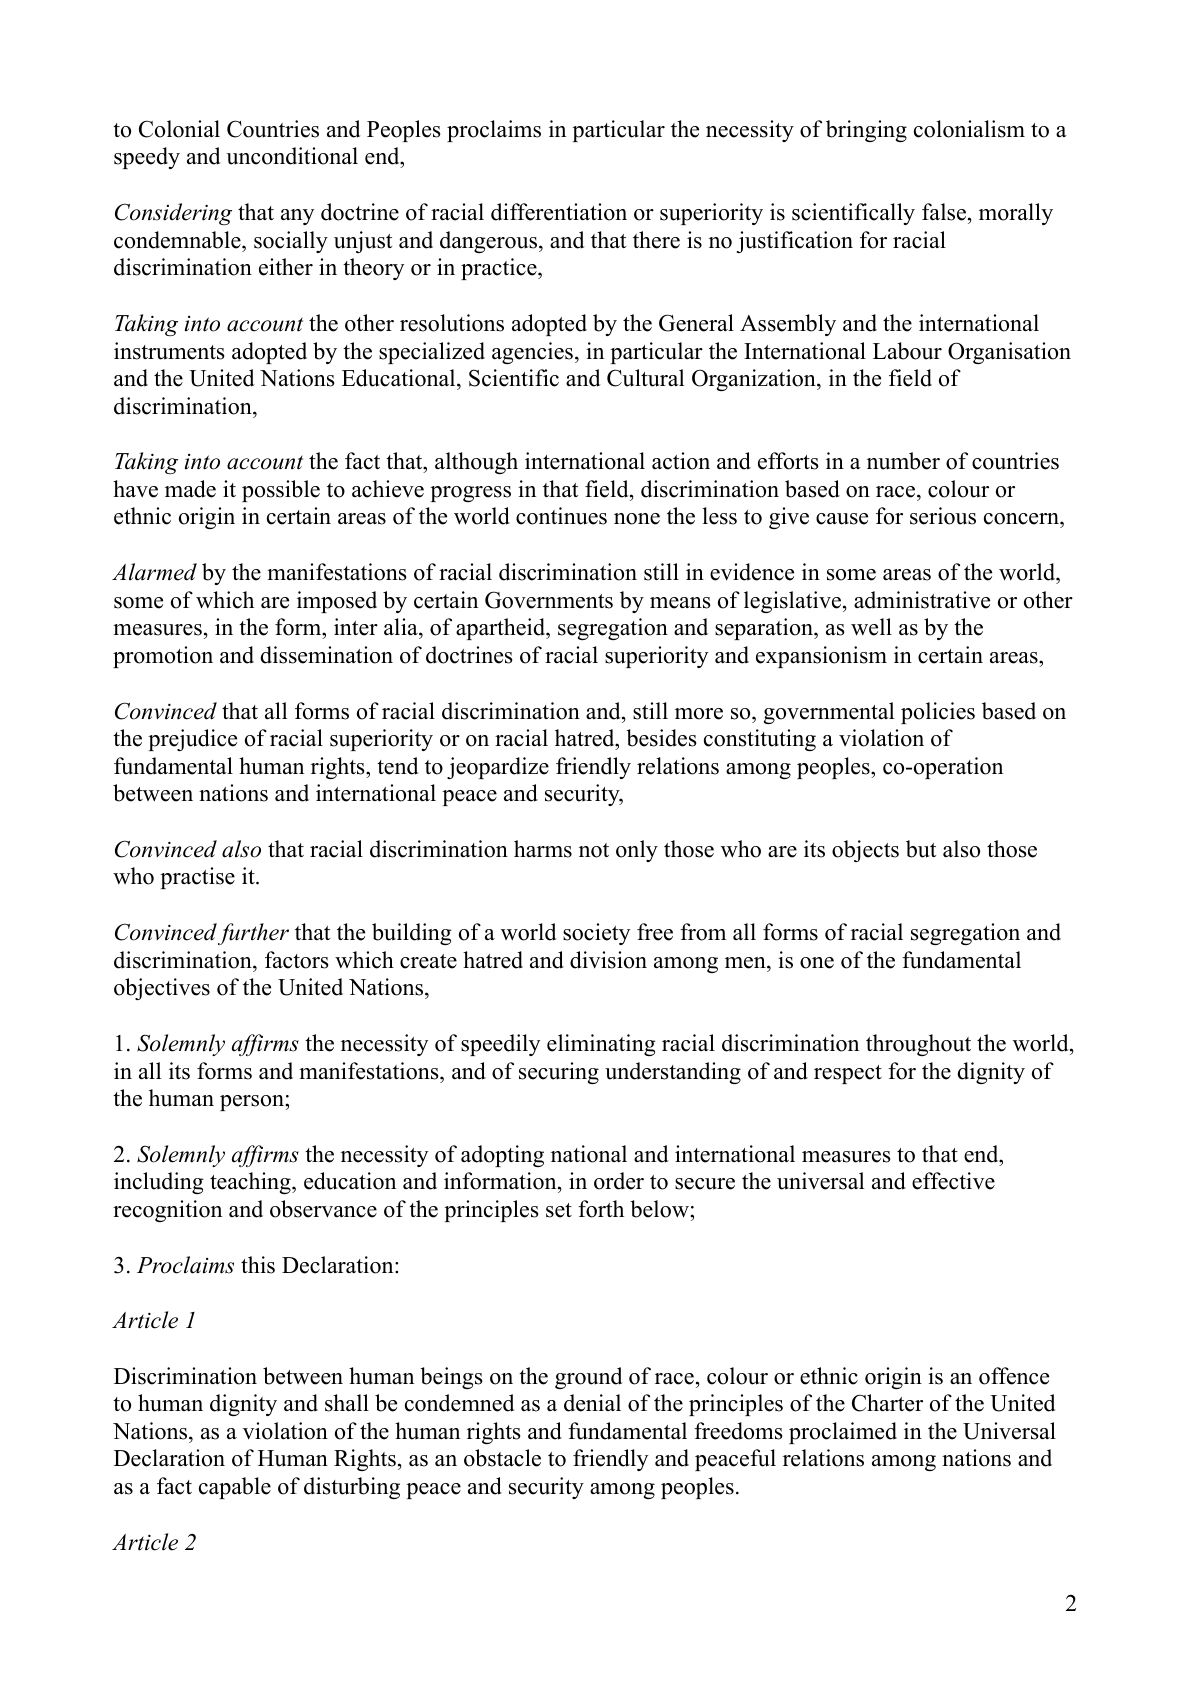
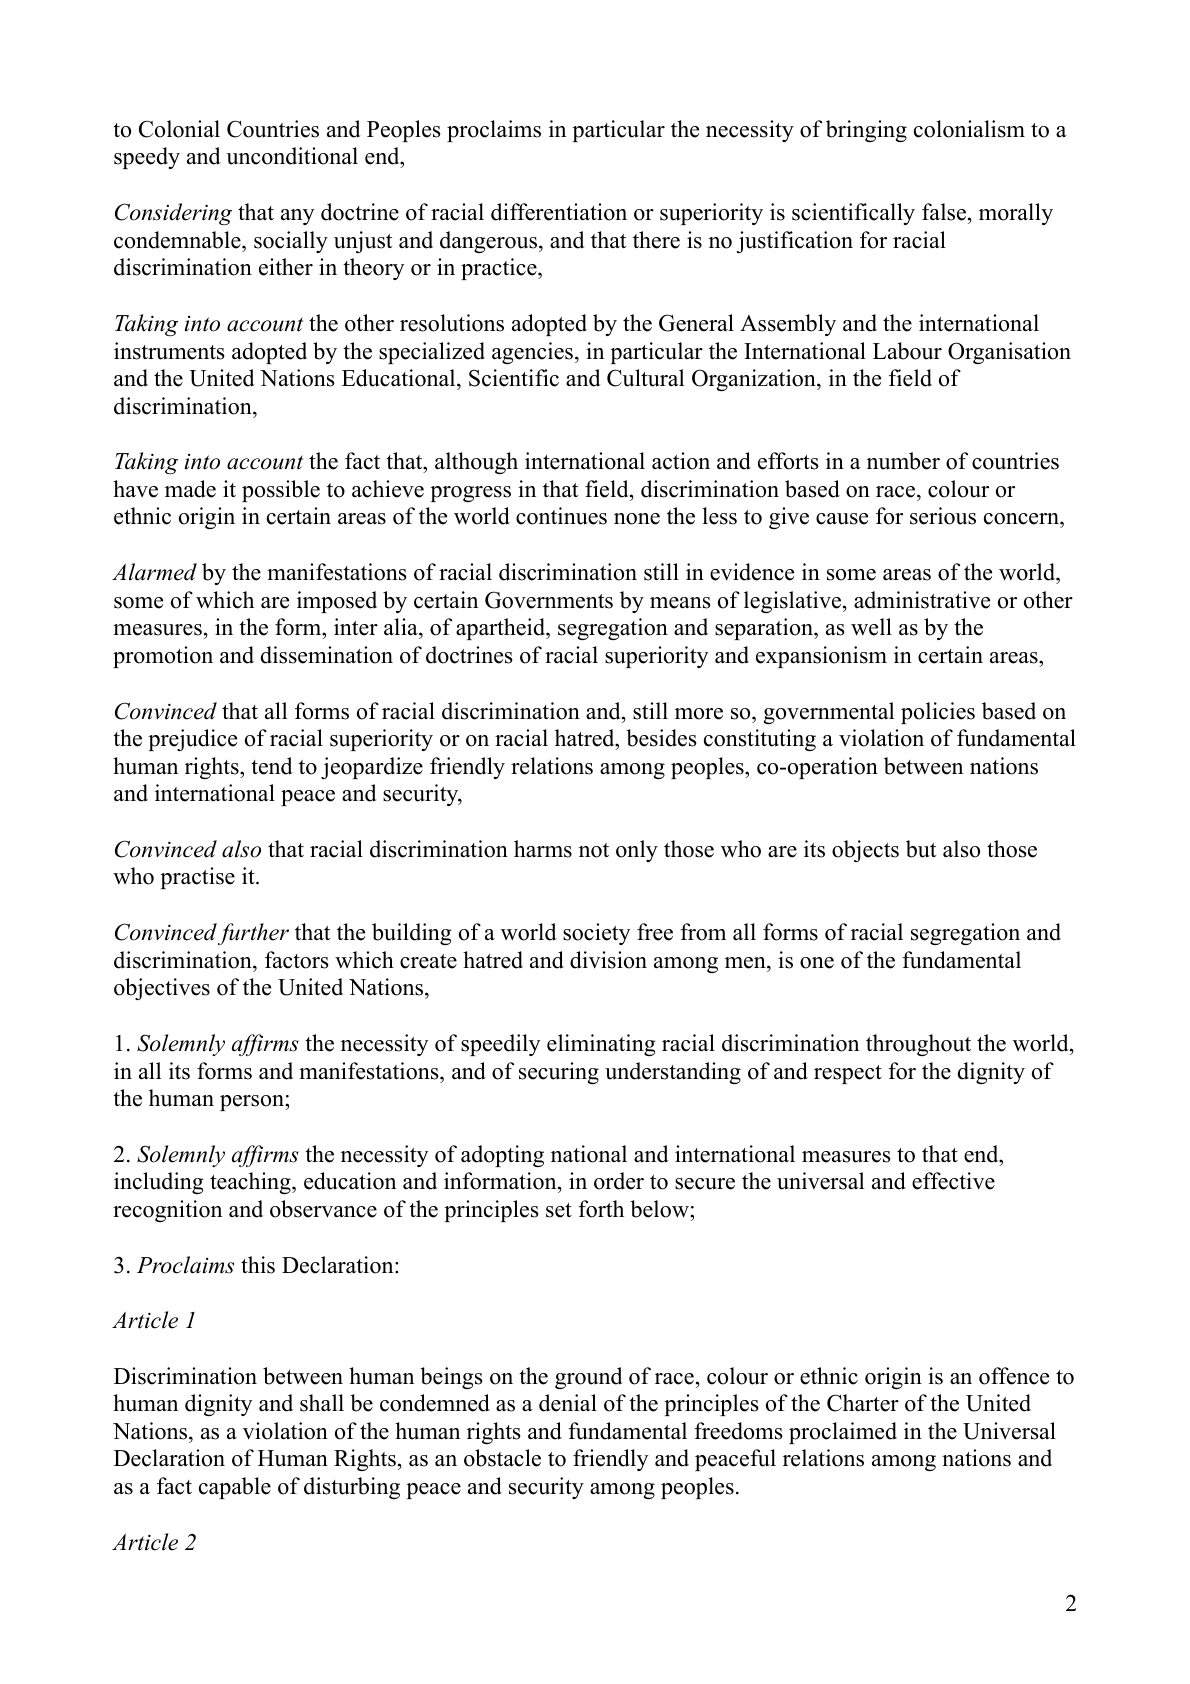
Word TOC parity: fit trailing-space body lines

diff --git a/docs/word-parity-fixes.html b/docs/word-parity-fixes.html
@@ -153,34 +153,34 @@
     <tbody>
       <tr>
         <td>
-          <strong>TOC body wrap: keep line-ending space from ejecting <code>world,</code></strong>
-          <span class="meta">Repro: <code>docx4j-toc.docx</code> page 2 numbered declaration paragraph.</span>
-          <span class="meta">Real fixture class: mixed italic/regular body paragraphs where a trailing space after the final word is wider than Word's visible line-fit decision.</span>
+          <strong>TOC body wrap: keep line-ending spaces from ejecting final words</strong>
+          <span class="meta">Repro: <code>docx4j-toc.docx</code> body paragraphs on pages 2-4.</span>
+          <span class="meta">Real fixture class: body paragraphs where a trailing space after the final word is wider than Word's visible line-fit decision.</span>
           <span class="meta">Paths checked: PDF backend line layout and focused <code>pdftotext</code> assertion guard.</span>
         </td>
         <td>
           <div class="zoom">
             <img src="images/word/toc-body-wrap-word.png" style="--w:1191px; --x:20px; --y:930px; --s:0.75" alt="Word reference: page 2 body wrap keeps world on the first line">
           </div>
-          <div class="caption">Word keeps <code>world,</code> on the first line of the numbered paragraph and starts the continuation with <code>in all its forms...</code>.</div>
+          <div class="caption">Word keeps final visible words such as <code>fundamental</code>, <code>world,</code>, <code>to</code>, <code>adequate</code>, and <code>he</code> on the prior line even when the following space would cross the text boundary.</div>
         </td>
         <td>
           <div class="zoom">
             <img src="images/browser/toc-body-wrap-after.png" style="--w:1190px; --x:20px; --y:930px; --s:0.75" alt="After: PDF body wrap matches Word">
           </div>
-          <div class="caption">After: the PDF backend matches the Word wrap. The extracted first-line bbox ends at <code>xMax=537.26pt</code> versus Word's <code>537.34pt</code>.</div>
+          <div class="caption">After: the PDF backend matches the Word body wraps. The extracted <code>world,</code> line ends at <code>xMax=537.26pt</code> versus Word's <code>537.34pt</code>.</div>
         </td>
         <td>
           <div class="zoom">
             <img src="images/baseline/toc-body-wrap-before.png" style="--w:1190px; --x:20px; --y:930px; --s:0.75" alt="Before: PDF body wrap pushes world to the next line">
           </div>
-          <div class="caption">Before: PDF layout measured the trailing space after <code>world,</code> as part of the fit decision and pushed <code>world,</code> onto the next line.</div>
+          <div class="caption">Before: PDF layout measured the trailing space as part of the fit decision and pushed visible words such as <code>world,</code> and <code>fundamental</code> onto the next line.</div>
         </td>
         <td>
-          <p><strong>Fix:</strong> treat bold/italic changes as mixed text metrics for Word-style trailing-space fit.</p>
+          <p><strong>Fix:</strong> apply Word-style visible-token fit whenever only trailing whitespace exceeds the line.</p>
           <ul>
-            <li><code>src/Word/Layout.fs</code>: <code>hasMixedTextMetrics</code> now includes <code>Bold</code> and <code>Italic</code>, so mixed italic/regular runs use the existing visible-token width path when only trailing whitespace exceeds the line.</li>
-            <li><code>tools/word-parity/assert-docx4j-toc-pdf-wrap.mjs</code>: extracts page 2 from the generated PDF and asserts that <code>world,</code> stays on the Word-matching line.</li>
+            <li><code>src/Word/Layout.fs</code>: <code>hasMixedTextMetrics</code> now includes <code>Bold</code> and <code>Italic</code>, the visible-token path applies to first lines too, and its safety matches the normal line-fit tolerance.</li>
+            <li><code>tools/word-parity/assert-docx4j-toc-pdf-wrap.mjs</code>: extracts the generated PDF and asserts the Word-matching body wrap lines across pages 2-4.</li>
             <li>Guard command: <code>node tools/word-parity/assert-docx4j-toc-pdf-wrap.mjs artifacts/toc-style/ours.pdf</code>.</li>
           </ul>
         </td>
